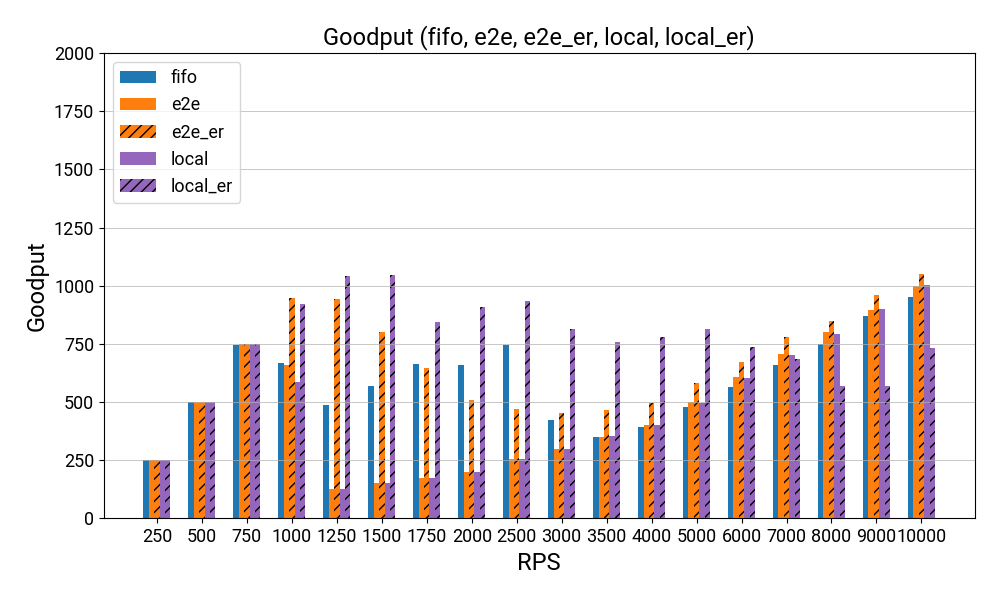
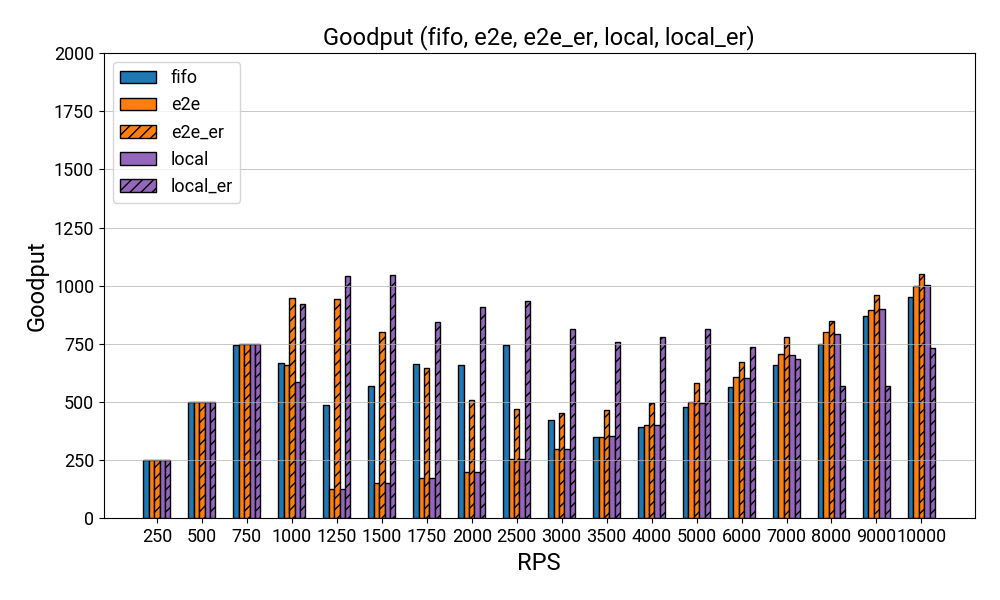
test: Update plot scripts

Changed region(s): [[0.124, 0.45, 0.961, 0.87], [0.124, 0.09, 0.155, 0.33]]

diff --git a/reboot-hotel/scripts/plots/plot_core.py b/reboot-hotel/scripts/plots/plot_core.py
@@ -174,141 +174,43 @@ def plot_goodput_cmp_bar(
 
     x = np.arange(len(rps_values))
     fig, ax = plt.subplots(figsize=(10, 6))
+
     bars: List = []
+    xs: List = []
+    colors: List = []
+    hatches: List = []
     if len(modes) == 2:
         width = 0.3
-        bars.append(
-            ax.bar(
-                x - width * 0.5,
-                goodputs[0],
-                width,
-                color=COLORS[0],
-                label=labels[0],
-            )
-        )
-        bars.append(
-            ax.bar(
-                x + width * 0.5,
-                goodputs[1],
-                width,
-                color=COLORS[1],
-                label=labels[1],
-            )
-        )
+        xs = [x - width * 0.5, x + width * 0.5]
+        colors = COLORS
+        hatches = ["", ""]
     elif len(modes) == 3:
         width = 0.2
-        bars.append(
-            ax.bar(
-                x - width,
-                goodputs[0],
-                width,
-                color=COLORS[0],
-                label=labels[0],
-            )
-        )
-        bars.append(
-            ax.bar(
-                x,
-                goodputs[1],
-                width,
-                color=COLORS[1],
-                label=labels[1],
-            )
-        )
-        bars.append(
-            ax.bar(
-                x + width,
-                goodputs[2],
-                width,
-                color=COLORS[2],
-                label=labels[2],
-            )
-        )
+        xs = [x - width, x, x + width]
+        colors = COLORS
+        hatches = ["", "", ""]
     elif len(modes) == 4:
         width = 0.15
-        bars.append(
-            ax.bar(
-                x - width * 1.5,
-                goodputs[0],
-                width,
-                color=COLORS[0],
-                label=labels[0],
-            )
-        )
-        bars.append(
-            ax.bar(
-                x - width * 0.5,
-                goodputs[1],
-                width,
-                color=COLORS[1],
-                label=labels[1],
-            )
-        )
-        bars.append(
-            ax.bar(
-                x + width * 0.5,
-                goodputs[2],
-                width,
-                color=COLORS[2],
-                label=labels[2],
-            )
-        )
-        bars.append(
-            ax.bar(
-                x + width * 1.5,
-                goodputs[3],
-                width,
-                color=COLORS[3],
-                label=labels[3],
-            )
-        )
+        xs = [x - width * 1.5, x - width * 0.5, x + width * 0.5, x + width * 1.5]
+        colors = COLORS
+        hatches = ["", "", "", ""]
     elif len(modes) == 5:
         width = 0.12
+        xs = [x - width * 2, x - width, x, x + width, x + width * 2]
+        colors = COLORS_AIO
+        hatches = ["", "", "///", "", "///"]
+
+    for i in range(len(modes)):
         bars.append(
             ax.bar(
-                x - width * 2,
-                goodputs[0],
+                xs[i],
+                goodputs[i],
                 width,
-                color=COLORS_AIO[0],
-                label=labels[0],
-            )
-        )
-        bars.append(
-            ax.bar(
-                x - width,
-                goodputs[1],
-                width,
-                color=COLORS_AIO[1],
-                label=labels[1],
-            )
-        )
-        bars.append(
-            ax.bar(
-                x,
-                goodputs[2],
-                width,
-                color=COLORS_AIO[2],
-                hatch="///",
-                label=labels[2],
-            )
-        )
-        bars.append(
-            ax.bar(
-                x + width,
-                goodputs[3],
-                width,
-                color=COLORS_AIO[3],
-                label=labels[3],
-            )
-        )
-        bars.append(
-            ax.bar(
-                x + width * 2,
-                goodputs[4],
-                width,
-                color=COLORS_AIO[4],
-                hatch="///",
-                label=labels[4],
+                label=labels[i],
+                color=colors[i],
+                hatch=hatches[i],
+                edgecolor="black",
+                linewidth=1,
             )
         )
 
@@ -580,8 +482,8 @@ def plot_tail_bar(results: List[Dict[str, Any]], fig_name: str, mode: str):
                 fontsize=fontsize_medium,
             )
 
-    for rects in rects_bar:
-        autolabel(rects)
+    # for rects in rects_bar:
+    #     autolabel(rects)
 
     fig.tight_layout()
     plt.grid(True, linestyle="--", linewidth=0.5)
@@ -589,23 +491,59 @@ def plot_tail_bar(results: List[Dict[str, Any]], fig_name: str, mode: str):
 
 
 def plot_tail_cmp_bar(
-    results: List[Dict[str, Any]], fig_name: str, modes: List[str], tail: str
+    modes: List[str], tail: str, results: List[Dict[str, Any]], fig_name: str
 ):
+    assert len(modes) <= 5
     modes_str = f"{', '.join(modes)}"
     keys = [f"{tail}_{mode}" for mode in modes]
     labels = [f"{tail} {mode}" for mode in modes]
-    assert len(keys) == 2, "Only 2 modes available"
 
     rps_values = [result["rps"] for result in results if keys[0] in result]
-    goodputs_lhs = [result[keys[0]] for result in results if keys[0] in result]
-    goodputs_rhs = [result[keys[1]] for result in results if keys[1] in result]
+    tails: List[List[int]] = []
+    for key in keys:
+        tails.append([result[key] for result in results if key in result])
 
     x = np.arange(len(rps_values))
-    width = 0.3
-
     fig, ax = plt.subplots(figsize=(10, 6))
-    rects1 = ax.bar(x - width * 0.5, goodputs_lhs, width, label=labels[0])
-    rects2 = ax.bar(x + width * 0.5, goodputs_rhs, width, label=labels[1])
+
+    bars: List = []
+    xs: List = []
+    colors: List = []
+    hatches: List = []
+    if len(modes) == 2:
+        width = 0.3
+        xs = [x - width * 0.5, x + width * 0.5]
+        colors = COLORS
+        hatches = ["", ""]
+    elif len(modes) == 3:
+        width = 0.2
+        xs = [x - width, x, x + width]
+        colors = COLORS
+        hatches = ["", "", ""]
+    elif len(modes) == 4:
+        width = 0.15
+        xs = [x - width * 1.5, x - width * 0.5, x + width * 0.5, x + width * 1.5]
+        colors = COLORS
+        hatches = ["", "", "", ""]
+    elif len(modes) == 5:
+        width = 0.12
+        xs = [x - width * 2, x - width, x, x + width, x + width * 2]
+        colors = COLORS_AIO
+        hatches = ["", "", "///", "", "///"]
+
+    for i in range(len(modes)):
+        bars.append(
+            ax.bar(
+                xs[i],
+                tails[i],
+                width,
+                label=labels[i],
+                color=colors[i],
+                hatch=hatches[i],
+                edgecolor="black",
+                linewidth=1,
+            )
+        )
 
     ax.set_xlabel("RPS")
     ax.set_ylabel(tail)
@@ -628,8 +566,8 @@ def plot_tail_cmp_bar(
                 fontsize=fontsize_medium,
             )
 
-    # autolabel(rects1)
-    autolabel(rects2)
+    # for bar in bars:
+    #     autolabel(bar)
 
     fig.tight_layout()
     plt.grid(True, linestyle="--", linewidth=0.5)

diff --git a/reboot-hotel/scripts/plots/plot_tail_cmp.py b/reboot-hotel/scripts/plots/plot_tail_cmp.py
@@ -2,7 +2,7 @@ import json
 from typing import *
 
 import pandas as pd
-from plot_core import GRAPH_IDS, parse_args, plot_tail_cmp_bar  # type: ignore
+from plot_core import parse_args, plot_tail_cmp_bar  # type: ignore
 
 args = parse_args()
 ms = 1e3
@@ -10,26 +10,36 @@ r = 0
 rps_to_results: List[Dict[str, Any]] = []
 
 for mode in args.modes:
-    snippet_path = f"{args.snippets}/{mode}"
-    cfg = json.load(open(f"{snippet_path}/gen_config.json"))
+    path = f"{args.snippets}/{mode}"
+    cfg = json.load(open(f"{path}/gen_config.json"))
 
     for rps in cfg["Rps"]:
-        file = f"{snippet_path}/r{rps}_{r}.csv"
+        file = f"{path}/{args.data}/r{rps}_{r}.csv"
         df = pd.read_csv(file)
-        for graph_id in GRAPH_IDS:
-            result = {}
-            result["rps"] = rps
-            result["graph_id"] = graph_id
-            df_filtered = df[
-                (df["graph_id"] == graph_id) & (df["error"].isin(["/None", "/LGMiss"]))
-            ]
+
+        result = {}
+        result["rps"] = rps
+
+        df_filtered = df[df["error"] == "/None"]
+        if df_filtered.empty:
+            print(f"Empty data for rps: {rps}")
+            result[f"mean_{mode}"] = 0
+            result[f"p90_{mode}"] = 0
+            result[f"p95_{mode}"] = 0
+            result[f"p99_{mode}"] = 0
+        else:
             result[f"mean_{mode}"] = round(df_filtered["latency"].mean() / ms)
             result[f"p90_{mode}"] = round(df_filtered["latency"].quantile(0.9) / ms)
             result[f"p95_{mode}"] = round(df_filtered["latency"].quantile(0.95) / ms)
             result[f"p99_{mode}"] = round(df_filtered["latency"].quantile(0.99) / ms)
-            rps_to_results.append(result)
 
+        rps_to_results.append(result)
+
+modes_str = "_".join(args.modes)
 for tail in ["mean", "p90", "p95", "p99"]:
     plot_tail_cmp_bar(
-        rps_to_results, f"{args.path}/fig_{tail}_rps_bar_{r}.png", args.modes, tail
+        args.modes,
+        tail,
+        rps_to_results,
+        f"{args.path}/fig_{tail}_total_rps_cmp_{modes_str}_{r}.png",
     )

diff --git a/reboot-hotel/scripts/plots/plot_tail.py b/reboot-hotel/scripts/plots/plot_tail.py
@@ -17,7 +17,8 @@ for r in range(cfg["Repeats"]):
 
         result = {}
         result["rps"] = rps
-        df_filtered = df[df["error"].isin(["/None", "/LGMiss"])]
+
+        df_filtered = df[df["error"] == "/None"]
         if df_filtered.empty:
             print(f"Empty data for rps: {rps}")
             result["mean"] = 0
@@ -33,12 +34,13 @@ for r in range(cfg["Repeats"]):
         rps_to_results.append(result)
 
     plot_tail_bar(
-        rps_to_results, f"{args.path}/fig_tail_rps_bar_{r}.png", f"{args.mode} all"
+        rps_to_results,
+        f"{args.path}/fig_tail_total_rps_bar_{r}.png",
+        f"{args.mode} total",
     )
 
-    for i in range(len(cfg["Apis"])):
+    for api in cfg["Apis"]:
         rps_to_results = []
-        api = cfg["Apis"][i]
 
         for rps in cfg["Rps"]:
             file = f"{args.path}/r{rps}_{r}.csv"
@@ -46,9 +48,8 @@ for r in range(cfg["Repeats"]):
 
             result = {}
             result["rps"] = rps
-            df_filtered = df[
-                (df["error"].isin(["/None", "/LGMiss"])) & (df["api"] == api)
-            ]
+
+            df_filtered = df[(df["error"] == "/None") & (df["api"] == api)]
             if df_filtered.empty:
                 print(f"Empty data for rps: {rps}")
                 result["mean"] = 0
